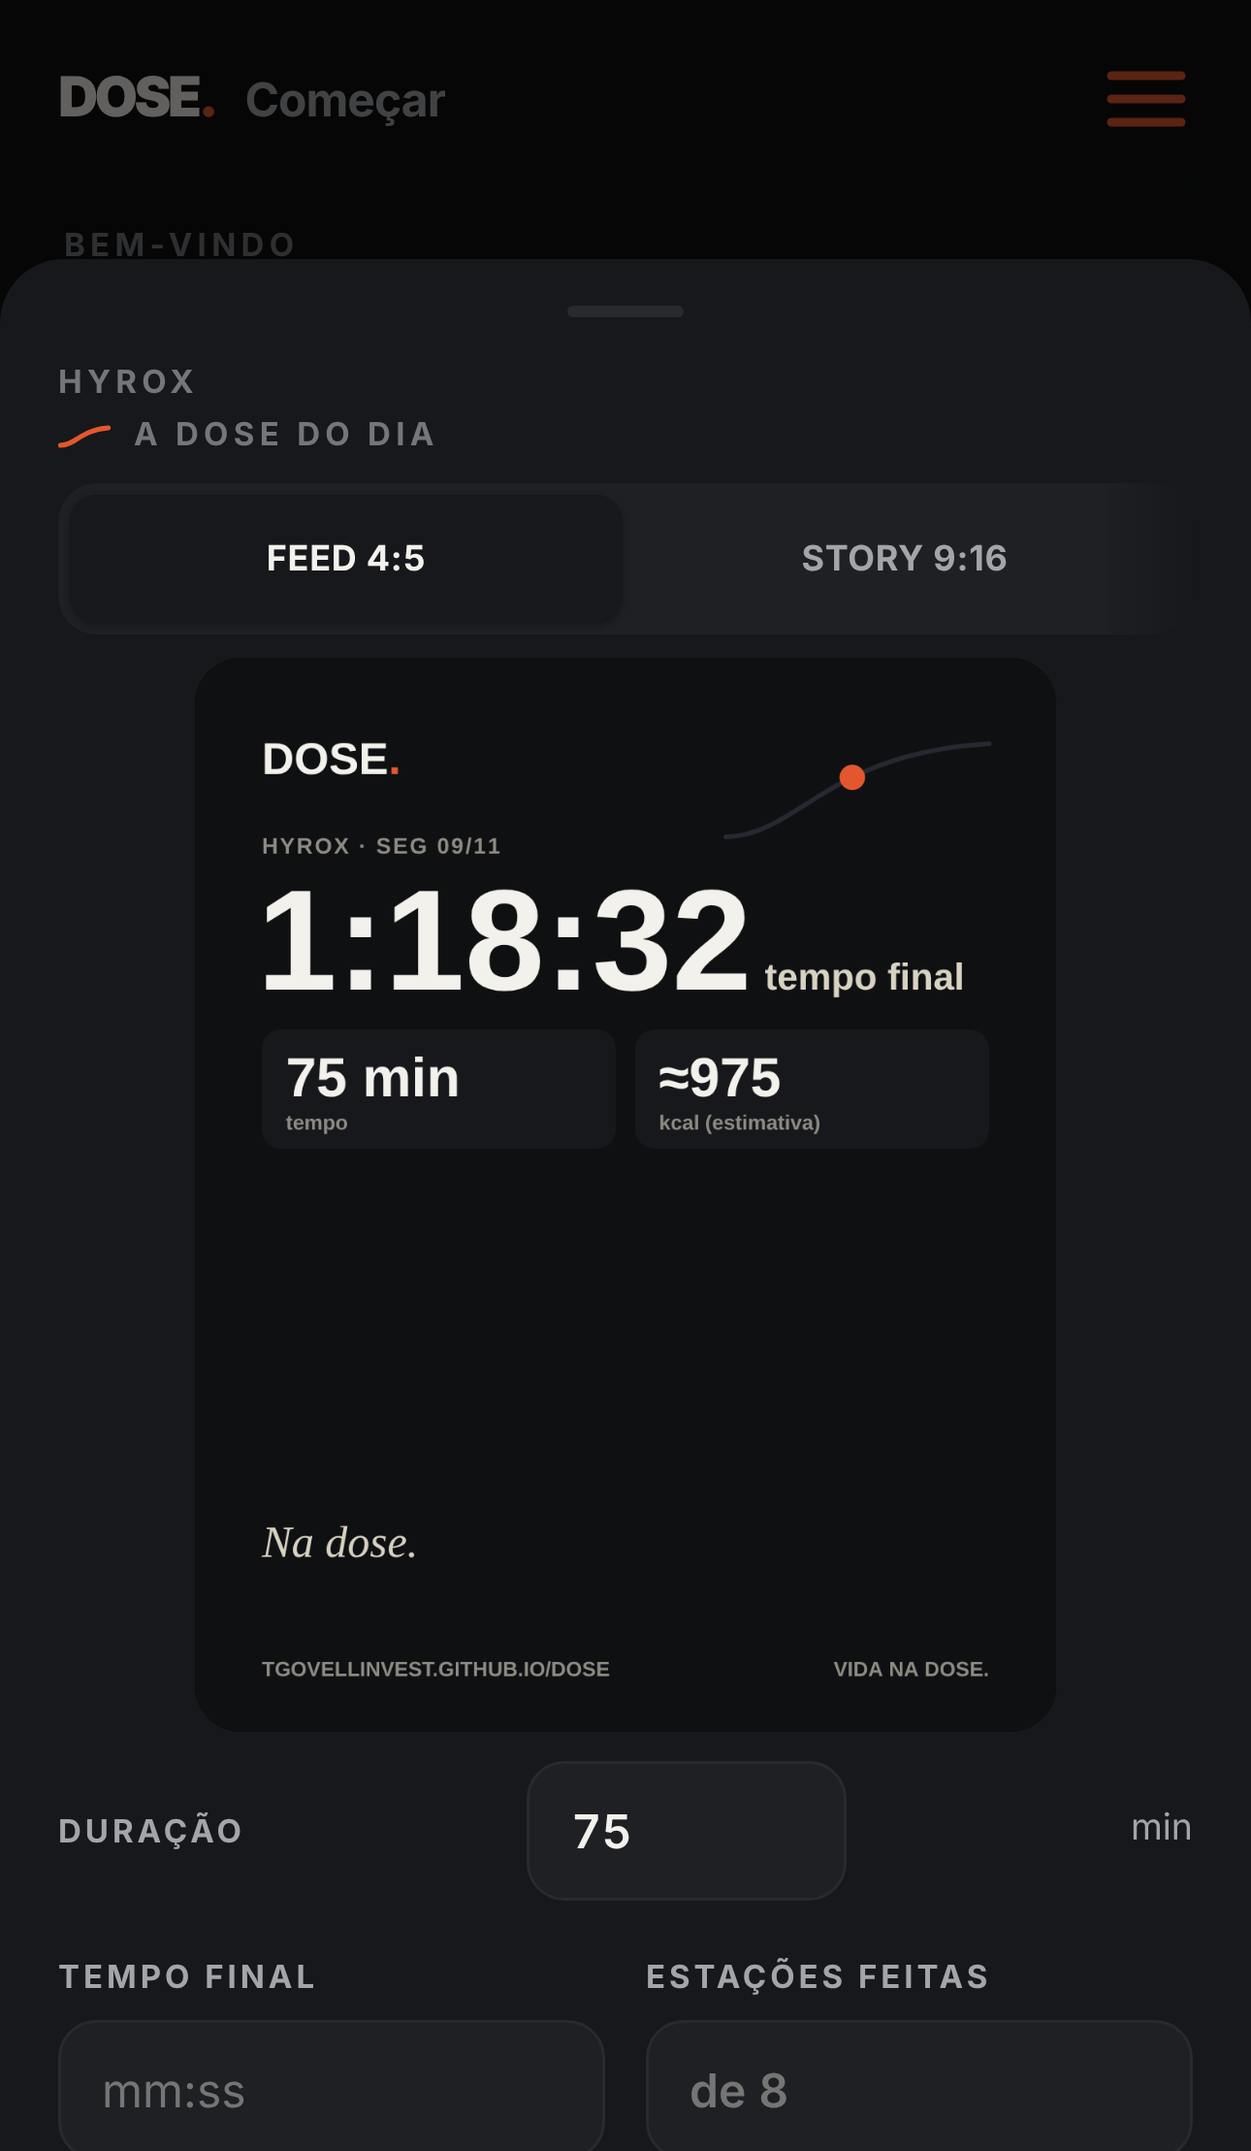
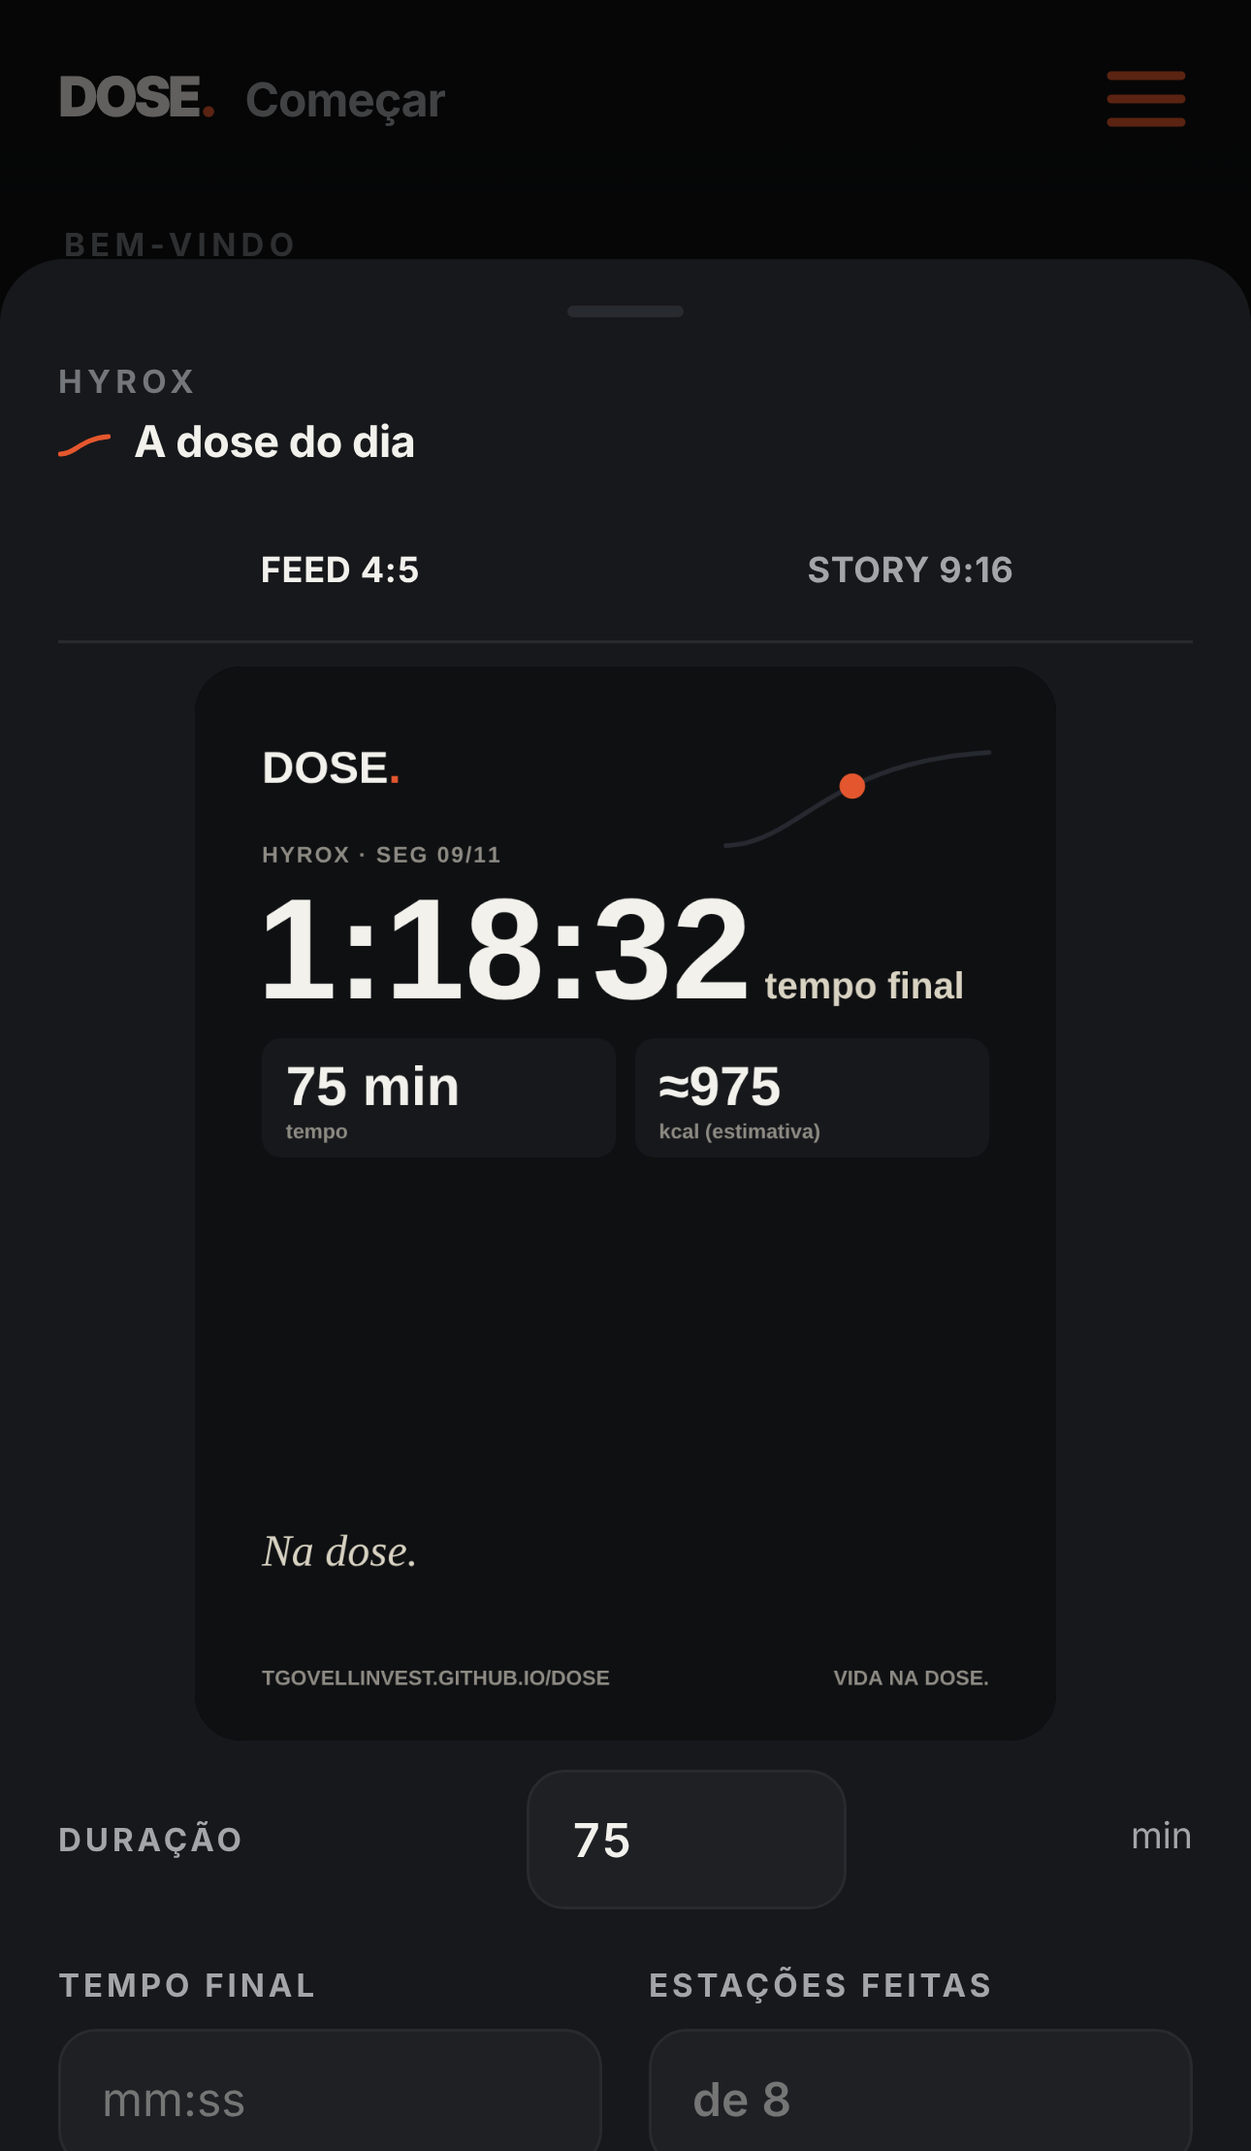
v8.1: luxo silencioso aprovado (cards sem borda, seções em caixa normal, abas com traço, animações mais calmas)
Só os quatro pontos aprovados pelo Tiago no DOSE Studio. Botão, cores e brilho do medidor continuam como antes. A prévia por ?visual= saiu.

Claude-Session: https://claude.ai/code/session_01K5ytTYB9i7FujCKTYzqav6

diff --git a/index.html b/index.html
@@ -12,9 +12,8 @@
 <link rel="manifest" href="manifest.json">
 <link rel="apple-touch-icon" href="apple-touch-icon.png">
 <link rel="icon" href="icon.svg" type="image/svg+xml">
-<link rel="stylesheet" href="styles.css?v=8.0">
-<link rel="stylesheet" href="silencio.css?v=8.0">
-<script>/* prévia do visual "luxo silencioso": ?visual=silencio liga, ?visual= desliga */try{var vz=new URLSearchParams(location.search).get("visual");if(vz!==null)localStorage.setItem("dose-visual",vz);vz=localStorage.getItem("dose-visual");if(vz)document.documentElement.dataset.visual=vz}catch(e){}</script>
+<link rel="stylesheet" href="styles.css?v=8.1">
+<link rel="stylesheet" href="silencio.css?v=8.1">
 <script src="vendor/chart-4.4.1.umd.js"></script>
 <script>window.Chart||document.write('<script src="https://cdnjs.cloudflare.com/ajax/libs/Chart.js/4.4.1/chart.umd.min.js"><\/script>')</script>
 <!-- Google Analytics 4 (propriedade "DOSE app", stream "DOSE web") -->
@@ -36,52 +35,52 @@
 </nav>
 <div id="sheet" class="sheet hidden"><div class="sheet-card"><div class="sheet-handle"></div><div id="sheetBody"></div></div></div>
 <div id="toast" class="toast hidden"></div>
-<script src="icons.js?v=8.0"></script>
-<script src="data/exercises.js?v=8.0"></script>
-<script src="data/programs.js?v=8.0"></script>
-<script src="data/sports2.js?v=8.0"></script>
-<script src="data/v3data.js?v=8.0"></script>
-<script src="data/foods.js?v=8.0"></script>
-<script src="data/foods2.js?v=8.0"></script>
-<script src="data/foods3.js?v=8.0"></script>
-<script src="data/foods4.js?v=8.0"></script>
-<script src="data/foods_marcas.js?v=8.0"></script>
-<script src="data/foods_prezunic.js?v=8.0"></script>
-<script src="data/foods_japones.js?v=8.0"></script>
-<script src="data/foods_nema.js?v=8.0"></script>
-<script src="data/foods_revisao.js?v=8.0"></script>
-<script src="generator.js?v=8.0"></script>
-<script src="coach.js?v=8.0"></script>
-<script src="features.js?v=8.0"></script>
-<script src="app.js?v=8.0"></script>
-<script src="views.js?v=8.0"></script>
-<script src="views2.js?v=8.0"></script>
-<script src="onboard.js?v=8.0"></script>
-<script src="cloud.js?v=8.0"></script>
-<script src="share.js?v=8.0"></script>
-<script src="grupos.js?v=8.0"></script>
-<script src="v3.js?v=8.0"></script>
-<script src="v4.js?v=8.0"></script>
-<script src="scanner.js?v=8.0"></script>
-<script src="personal.js?v=8.0"></script>
-<script src="planos.js?v=8.0"></script>
-<script src="v6.js?v=8.0"></script>
-<script src="regiao.js?v=8.0"></script>
-<script src="perfil.js?v=8.0"></script>
-<script src="treino2.js?v=8.0"></script>
-<script src="motion2.js?v=8.0"></script>
-<script src="botoes.js?v=8.0"></script>
-<script src="motion3.js?v=8.0"></script>
-<script src="boasvindas.js?v=8.0"></script>
-<script src="hoje2.js?v=8.0"></script>
-<script src="abertura.js?v=8.0"></script>
-<script src="dieta.js?v=8.0"></script>
-<script src="mapa.js?v=8.0"></script>
-<script src="comunidade2.js?v=8.0"></script>
-<script src="dose.js?v=8.0"></script>
-<script src="clube.js?v=8.0"></script>
-<script src="grupo6.js?v=8.0"></script>
-<script src="ads.js?v=8.0"></script>
+<script src="icons.js?v=8.1"></script>
+<script src="data/exercises.js?v=8.1"></script>
+<script src="data/programs.js?v=8.1"></script>
+<script src="data/sports2.js?v=8.1"></script>
+<script src="data/v3data.js?v=8.1"></script>
+<script src="data/foods.js?v=8.1"></script>
+<script src="data/foods2.js?v=8.1"></script>
+<script src="data/foods3.js?v=8.1"></script>
+<script src="data/foods4.js?v=8.1"></script>
+<script src="data/foods_marcas.js?v=8.1"></script>
+<script src="data/foods_prezunic.js?v=8.1"></script>
+<script src="data/foods_japones.js?v=8.1"></script>
+<script src="data/foods_nema.js?v=8.1"></script>
+<script src="data/foods_revisao.js?v=8.1"></script>
+<script src="generator.js?v=8.1"></script>
+<script src="coach.js?v=8.1"></script>
+<script src="features.js?v=8.1"></script>
+<script src="app.js?v=8.1"></script>
+<script src="views.js?v=8.1"></script>
+<script src="views2.js?v=8.1"></script>
+<script src="onboard.js?v=8.1"></script>
+<script src="cloud.js?v=8.1"></script>
+<script src="share.js?v=8.1"></script>
+<script src="grupos.js?v=8.1"></script>
+<script src="v3.js?v=8.1"></script>
+<script src="v4.js?v=8.1"></script>
+<script src="scanner.js?v=8.1"></script>
+<script src="personal.js?v=8.1"></script>
+<script src="planos.js?v=8.1"></script>
+<script src="v6.js?v=8.1"></script>
+<script src="regiao.js?v=8.1"></script>
+<script src="perfil.js?v=8.1"></script>
+<script src="treino2.js?v=8.1"></script>
+<script src="motion2.js?v=8.1"></script>
+<script src="botoes.js?v=8.1"></script>
+<script src="motion3.js?v=8.1"></script>
+<script src="boasvindas.js?v=8.1"></script>
+<script src="hoje2.js?v=8.1"></script>
+<script src="abertura.js?v=8.1"></script>
+<script src="dieta.js?v=8.1"></script>
+<script src="mapa.js?v=8.1"></script>
+<script src="comunidade2.js?v=8.1"></script>
+<script src="dose.js?v=8.1"></script>
+<script src="clube.js?v=8.1"></script>
+<script src="grupo6.js?v=8.1"></script>
+<script src="ads.js?v=8.1"></script>
 <script>
 if ('serviceWorker' in navigator && location.protocol.startsWith('http')) { navigator.serviceWorker.register('sw.js').catch(()=>{}); }
 </script>

diff --git a/design-system/overview.html b/design-system/overview.html
@@ -693,47 +693,26 @@ body.cvt-on .tabbar,body.cvt-on #btnMais{display:none}
 
 </style>
 <style>
-/* ================= DOSE · v8.0 — "Luxo silencioso" (prévia para o DOSE Studio; aprovada em princípio pelo Tiago em 09/11/2026, Q1 a Q5) =================
-   Filosofia: luxo silencioso funcional, minimalismo quente carioca, evitar ostentação. Subtrair, não redesenhar.
-   Q1 botão principal marfim; ember só no ponto, no "feito" e no mapa. Q2 sem bordas nos cards, +25% de respiro.
-   Q3 caixa-alta 900 só no título da tela; seções em Archivo 700 normal. Q4 grafite levemente mais quente, tema claro marfim quente.
-   As animações ficam todas, cerca de 20% mais calmas.
-   Só vale quando <html data-visual="silencio">. Sem gradiente, sem brilho. */
-html[data-visual="silencio"]{
-  --bg:#100F0E; --s1:#181715; --s2:#1F1E1B; --s3:#292724; --line:#2A2825;
-  --tx:#F4F2ED; --tx2:#AAA69E; --tx3:#7A766F; --bone:#DCD5C6;
-  --gap:16px; --base:320ms; --slow:840ms; --fast:170ms;
-}
-html[data-visual="silencio"][data-theme=light]{--bg:#F4F2ED;--s1:#FBFAF7;--s2:#ECE9E2;--s3:#E2DED5;--line:#E2DED5;--tx:#1A1916;--tx2:#615D56;--tx3:#8F8A82;--bone:#55504A}
-/* Q2 · respiro e menos caixa */
-html[data-visual="silencio"] .view{padding-left:22px;padding-right:22px}
-html[data-visual="silencio"] .card,html[data-visual="silencio"] .item,html[data-visual="silencio"] .cm,html[data-visual="silencio"] .chip{border-color:transparent}
-html[data-visual="silencio"] .card{padding:20px}
-html[data-visual="silencio"] .list{gap:10px}
-html[data-visual="silencio"] .btn.ghost{border-color:var(--s3)}
-/* Q1 · ember só onde é o ponto */
-html[data-visual="silencio"] .btn.em{background:var(--tx);color:var(--bg)}
-html[data-visual="silencio"] .serif i,html[data-visual="silencio"] .coach i{color:var(--bone)}
-html[data-visual="silencio"] h3::before{display:none}
-html[data-visual="silencio"] .eyebrow.em{color:var(--tx3)}
-/* Q3 · tipografia que fala baixo */
-html[data-visual="silencio"] h1.sec{font-size:24px;margin:10px 0 8px}
-html[data-visual="silencio"] h3{font-size:15px;font-weight:700;text-transform:none;letter-spacing:-.01em;color:var(--tx);margin:30px 0 10px}
-html[data-visual="silencio"] .eyebrow{letter-spacing:.2em;font-weight:600}
-html[data-visual="silencio"] .tiny{color:var(--tx3)}
-/* abas: a pílula ativa some no fundo, o texto marca */
-html[data-visual="silencio"] .seg{background:transparent;border-bottom:1px solid var(--line);border-radius:0;padding:0 0 2px;mask-image:none}
-html[data-visual="silencio"] .seg button,html[data-visual="silencio"] .seg button.on{background:none;box-shadow:none}
-html[data-visual="silencio"] .seg button.on{color:var(--tx)}
-html[data-visual="silencio"] .seg .m3-ind{top:auto;bottom:-1px;height:2px;border-radius:1px;background:var(--tx);box-shadow:none}
-@media (prefers-reduced-motion:reduce){html[data-visual="silencio"]{--base:0ms;--slow:0ms}}
-/* sem brilho atrás do medidor; pilares sem borda; menu em marfim (o ember fica no ponto) */
-html[data-visual="silencio"] .hero4:before{display:none}
-html[data-visual="silencio"] .pilar{border-color:transparent}
-html[data-visual="silencio"] .menubtn{color:var(--tx)}
+/* ================= DOSE · v8.1 — "Luxo silencioso", só o que o Tiago aprovou no DOSE Studio (09/11/2026) =================
+   Aprovado: cards sem borda e com mais respiro; títulos de seção em caixa normal; abas em texto com um traço embaixo;
+   as mesmas animações, um pouco mais calmas (cerca de 20%).
+   Ficou de fora (continua como antes): botão ember, cores, brilho do medidor, menu em ember. */
+:root{--gap:16px;--base:320ms;--slow:840ms;--fast:170ms}
+/* cards sem borda e mais respiro */
+.view{padding-left:22px;padding-right:22px}
+.card,.item,.cm,.pilar{border-color:transparent}
+.card{padding:20px}
+.list{gap:10px}
+/* títulos de seção em caixa normal */
+h3{font-size:15px;font-weight:700;text-transform:none;letter-spacing:-.01em;color:var(--tx);margin:30px 0 10px}
+/* abas: texto com um traço embaixo, sem pílula */
+.seg:not(.ck):not(.intens){background:transparent;border-bottom:1px solid var(--line);border-radius:0;padding:0 0 2px;mask-image:none}
+.seg:not(.ck):not(.intens) button,.seg:not(.ck):not(.intens) button.on{background:none;box-shadow:none}
+.seg:not(.ck):not(.intens) button.on{color:var(--tx)}
+.seg:not(.ck):not(.intens) .m3-ind{top:auto;bottom:-1px;height:2px;border-radius:1px;background:var(--tx);box-shadow:none}
+@media (prefers-reduced-motion:reduce){:root{--base:0ms;--slow:0ms}}
 
 </style>
-<script>/* prévia do visual "luxo silencioso": ?visual=silencio liga, ?visual= desliga */try{var vz=new URLSearchParams(location.search).get("visual");if(vz!==null)localStorage.setItem("dose-visual",vz);vz=localStorage.getItem("dose-visual");if(vz)document.documentElement.dataset.visual=vz}catch(e){}</script>
 <script src="vendor/chart-4.4.1.umd.js"></script>
 <script>window.Chart||document.write('<script src="https://cdnjs.cloudflare.com/ajax/libs/Chart.js/4.4.1/chart.umd.min.js"><\/script>')</script>
 <!-- Google Analytics 4 (propriedade "DOSE app", stream "DOSE web") -->

diff --git a/silencio.css b/silencio.css
@@ -1,38 +1,18 @@
-/* ================= DOSE · v8.0 — "Luxo silencioso" (prévia para o DOSE Studio; aprovada em princípio pelo Tiago em 09/11/2026, Q1 a Q5) =================
-   Filosofia: luxo silencioso funcional, minimalismo quente carioca, evitar ostentação. Subtrair, não redesenhar.
-   Q1 botão principal marfim; ember só no ponto, no "feito" e no mapa. Q2 sem bordas nos cards, +25% de respiro.
-   Q3 caixa-alta 900 só no título da tela; seções em Archivo 700 normal. Q4 grafite levemente mais quente, tema claro marfim quente.
-   As animações ficam todas, cerca de 20% mais calmas.
-   Só vale quando <html data-visual="silencio">. Sem gradiente, sem brilho. */
-html[data-visual="silencio"]{
-  --bg:#100F0E; --s1:#181715; --s2:#1F1E1B; --s3:#292724; --line:#2A2825;
-  --tx:#F4F2ED; --tx2:#AAA69E; --tx3:#7A766F; --bone:#DCD5C6;
-  --gap:16px; --base:320ms; --slow:840ms; --fast:170ms;
-}
-html[data-visual="silencio"][data-theme=light]{--bg:#F4F2ED;--s1:#FBFAF7;--s2:#ECE9E2;--s3:#E2DED5;--line:#E2DED5;--tx:#1A1916;--tx2:#615D56;--tx3:#8F8A82;--bone:#55504A}
-/* Q2 · respiro e menos caixa */
-html[data-visual="silencio"] .view{padding-left:22px;padding-right:22px}
-html[data-visual="silencio"] .card,html[data-visual="silencio"] .item,html[data-visual="silencio"] .cm,html[data-visual="silencio"] .chip{border-color:transparent}
-html[data-visual="silencio"] .card{padding:20px}
-html[data-visual="silencio"] .list{gap:10px}
-html[data-visual="silencio"] .btn.ghost{border-color:var(--s3)}
-/* Q1 · ember só onde é o ponto */
-html[data-visual="silencio"] .btn.em{background:var(--tx);color:var(--bg)}
-html[data-visual="silencio"] .serif i,html[data-visual="silencio"] .coach i{color:var(--bone)}
-html[data-visual="silencio"] h3::before{display:none}
-html[data-visual="silencio"] .eyebrow.em{color:var(--tx3)}
-/* Q3 · tipografia que fala baixo */
-html[data-visual="silencio"] h1.sec{font-size:24px;margin:10px 0 8px}
-html[data-visual="silencio"] h3{font-size:15px;font-weight:700;text-transform:none;letter-spacing:-.01em;color:var(--tx);margin:30px 0 10px}
-html[data-visual="silencio"] .eyebrow{letter-spacing:.2em;font-weight:600}
-html[data-visual="silencio"] .tiny{color:var(--tx3)}
-/* abas: a pílula ativa some no fundo, o texto marca */
-html[data-visual="silencio"] .seg{background:transparent;border-bottom:1px solid var(--line);border-radius:0;padding:0 0 2px;mask-image:none}
-html[data-visual="silencio"] .seg button,html[data-visual="silencio"] .seg button.on{background:none;box-shadow:none}
-html[data-visual="silencio"] .seg button.on{color:var(--tx)}
-html[data-visual="silencio"] .seg .m3-ind{top:auto;bottom:-1px;height:2px;border-radius:1px;background:var(--tx);box-shadow:none}
-@media (prefers-reduced-motion:reduce){html[data-visual="silencio"]{--base:0ms;--slow:0ms}}
-/* sem brilho atrás do medidor; pilares sem borda; menu em marfim (o ember fica no ponto) */
-html[data-visual="silencio"] .hero4:before{display:none}
-html[data-visual="silencio"] .pilar{border-color:transparent}
-html[data-visual="silencio"] .menubtn{color:var(--tx)}
+/* ================= DOSE · v8.1 — "Luxo silencioso", só o que o Tiago aprovou no DOSE Studio (09/11/2026) =================
+   Aprovado: cards sem borda e com mais respiro; títulos de seção em caixa normal; abas em texto com um traço embaixo;
+   as mesmas animações, um pouco mais calmas (cerca de 20%).
+   Ficou de fora (continua como antes): botão ember, cores, brilho do medidor, menu em ember. */
+:root{--gap:16px;--base:320ms;--slow:840ms;--fast:170ms}
+/* cards sem borda e mais respiro */
+.view{padding-left:22px;padding-right:22px}
+.card,.item,.cm,.pilar{border-color:transparent}
+.card{padding:20px}
+.list{gap:10px}
+/* títulos de seção em caixa normal */
+h3{font-size:15px;font-weight:700;text-transform:none;letter-spacing:-.01em;color:var(--tx);margin:30px 0 10px}
+/* abas: texto com um traço embaixo, sem pílula */
+.seg:not(.ck):not(.intens){background:transparent;border-bottom:1px solid var(--line);border-radius:0;padding:0 0 2px;mask-image:none}
+.seg:not(.ck):not(.intens) button,.seg:not(.ck):not(.intens) button.on{background:none;box-shadow:none}
+.seg:not(.ck):not(.intens) button.on{color:var(--tx)}
+.seg:not(.ck):not(.intens) .m3-ind{top:auto;bottom:-1px;height:2px;border-radius:1px;background:var(--tx);box-shadow:none}
+@media (prefers-reduced-motion:reduce){:root{--base:0ms;--slow:0ms}}

diff --git a/sw.js b/sw.js
@@ -1,4 +1,4 @@
-const C='dose-v8.0';
+const C='dose-v8.1';
 const F=['./','./index.html','./styles.css','./app.js','./views.js','./views2.js','./generator.js','./coach.js','./features.js','./cloud.js','./share.js','./grupos.js','./v3.js','./v4.js','./scanner.js','./personal.js','./planos.js','./v6.js','./regiao.js','./perfil.js','./treino2.js','./motion2.js','./botoes.js','./motion3.js','./boasvindas.js','./hoje2.js','./abertura.js','./dieta.js','./mapa.js','./comunidade2.js','./dose.js','./clube.js','./grupo6.js','./silencio.css','./data/zxing.min.js','./data/v3data.js','./ads.js','./icons.js','./vendor/chart-4.4.1.umd.js','./onboard.js','./data/sports2.js','./data/exercises.js','./data/programs.js','./data/foods.js','./data/foods2.js','./data/foods3.js','./data/foods4.js','./data/foods_marcas.js','./data/foods_prezunic.js','./data/foods_japones.js','./data/foods_nema.js','./data/foods_revisao.js','./manifest.json','./icon.svg','./apple-touch-icon.png','./icon-192.png','./icon-512.png','./termos.html','./privacidade.html','./legal.css'];
 self.addEventListener('install',e=>{e.waitUntil(caches.open(C).then(c=>c.addAll(F).catch(()=>{})).then(()=>self.skipWaiting()));});
 self.addEventListener('activate',e=>{e.waitUntil(caches.keys().then(ks=>Promise.all(ks.filter(k=>k!==C).map(k=>caches.delete(k)))).then(()=>self.clients.claim()));});

diff --git a/CLAUDE.md b/CLAUDE.md
@@ -29,7 +29,7 @@ O dono é o Tiago. Fale com ele em português do Brasil, resposta primeiro e det
 - Planos por esporte: `planos.js` (base) + `treino2.js` (Hyrox e corrida ampliados, ritmo VDOT, playlist).
 - Motion: `motion2.js` (8 movimentos aprovados), `botoes.js` (animação por tipo de botão) e `motion3.js` (mapa dos músculos, ícones e medalhas). Regras no Brand Book §7.
 - Telas aprovadas no DOSE Studio: `boasvindas.js` (Do excesso à dose) , `hoje2.js` (Hoje: medidor, ficha em leque, semana em barras) , `abertura.js` (abertura do dia para membros) , `dieta.js` (Minha dieta importada com check por refeição) , `mapa.js` (Pontos de treino do Rio, MapLibre + OpenFreeMap, aberto/fechado) , `comunidade2.js` (treino no ponto, presença confirmada, medalha Ponto), `dose.js` (a dose do dia: cartão por esporte e dados do relógio) , `clube.js` (Comunidade em Pontos, Grupos e Convites; convite numerado, cartão do encontro e cartão de membro; sem ranking da cidade) e `grupo6.js` (grupo de até 6 montado pelo app no ponto e horário escolhidos).
-- Prévia em avaliação no DOSE Studio: `silencio.css` (luxo silencioso), ligada só com `?visual=silencio`.
+- `silencio.css` (luxo silencioso aprovado no Studio em 09/11): cards sem borda e com mais respiro, títulos de seção em caixa normal, abas em texto com traço embaixo, animações ~20% mais calmas. Cores e botões não mudaram.
 
 ## Publicar (skill `dose-deploy`)
 1. Subir a versão: `?v=X` em todas as tags de `index.html` e `const C='dose-vX'` em `sw.js`. Arquivo novo entra na lista do `sw.js`.
